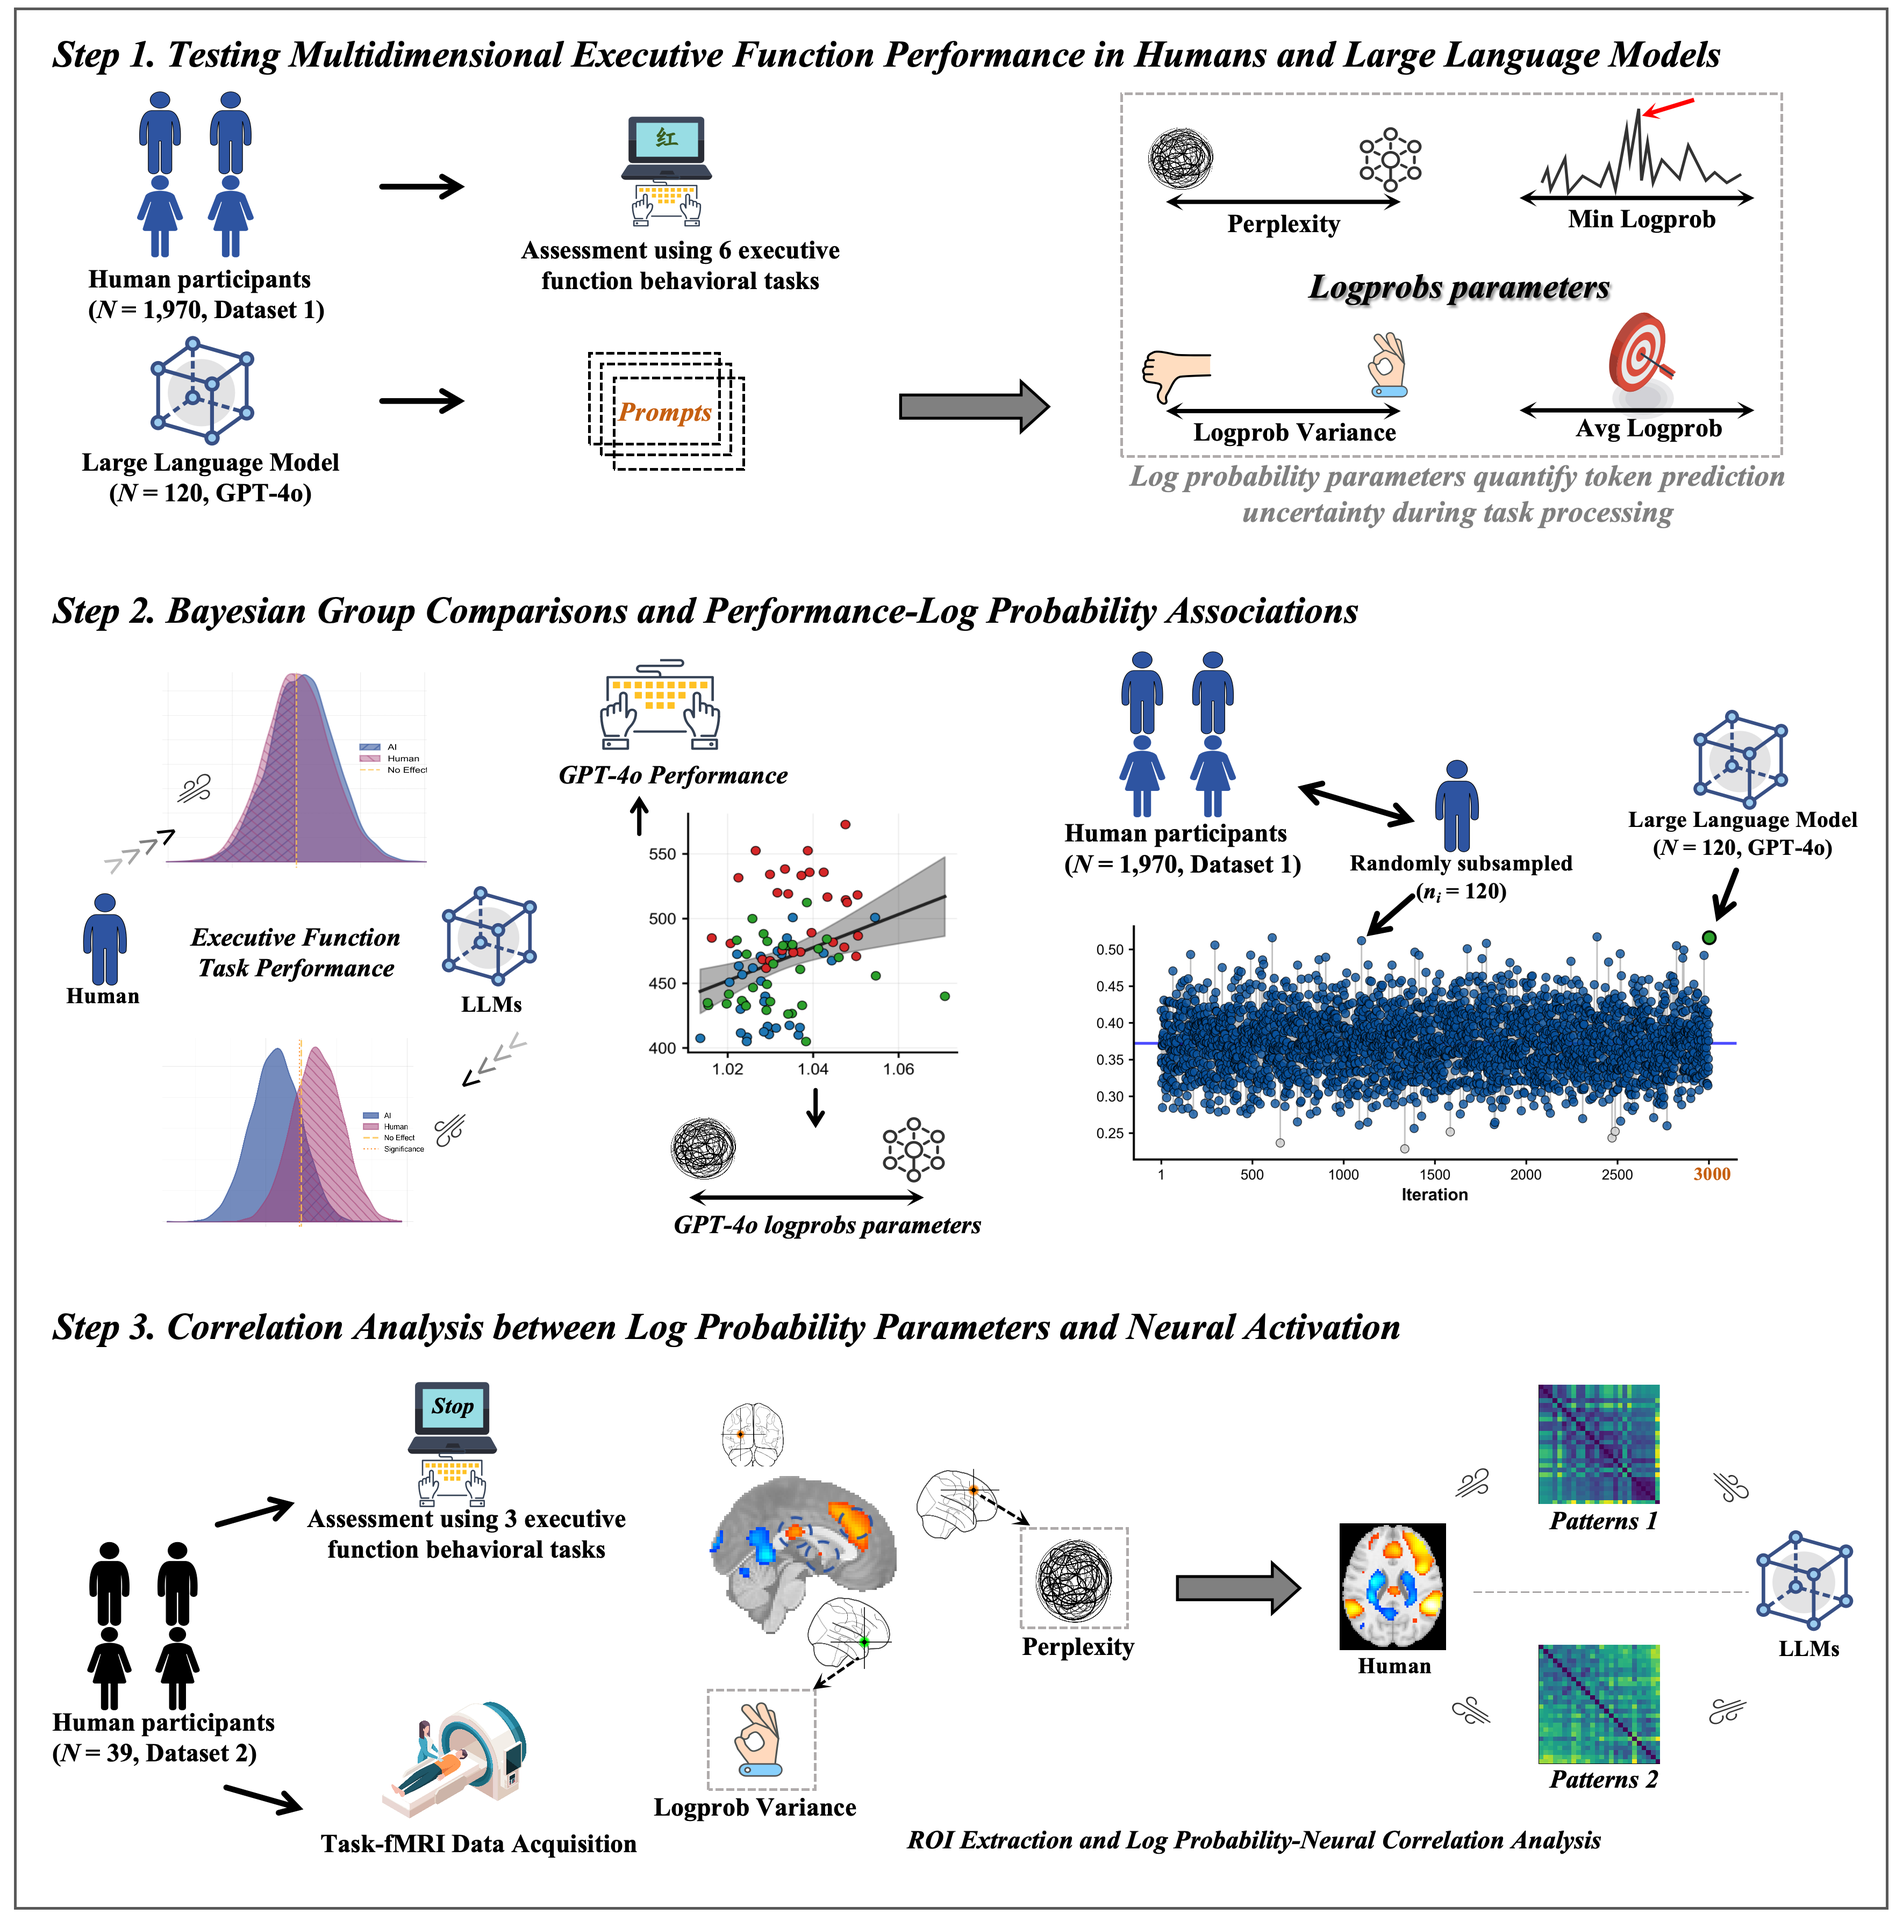
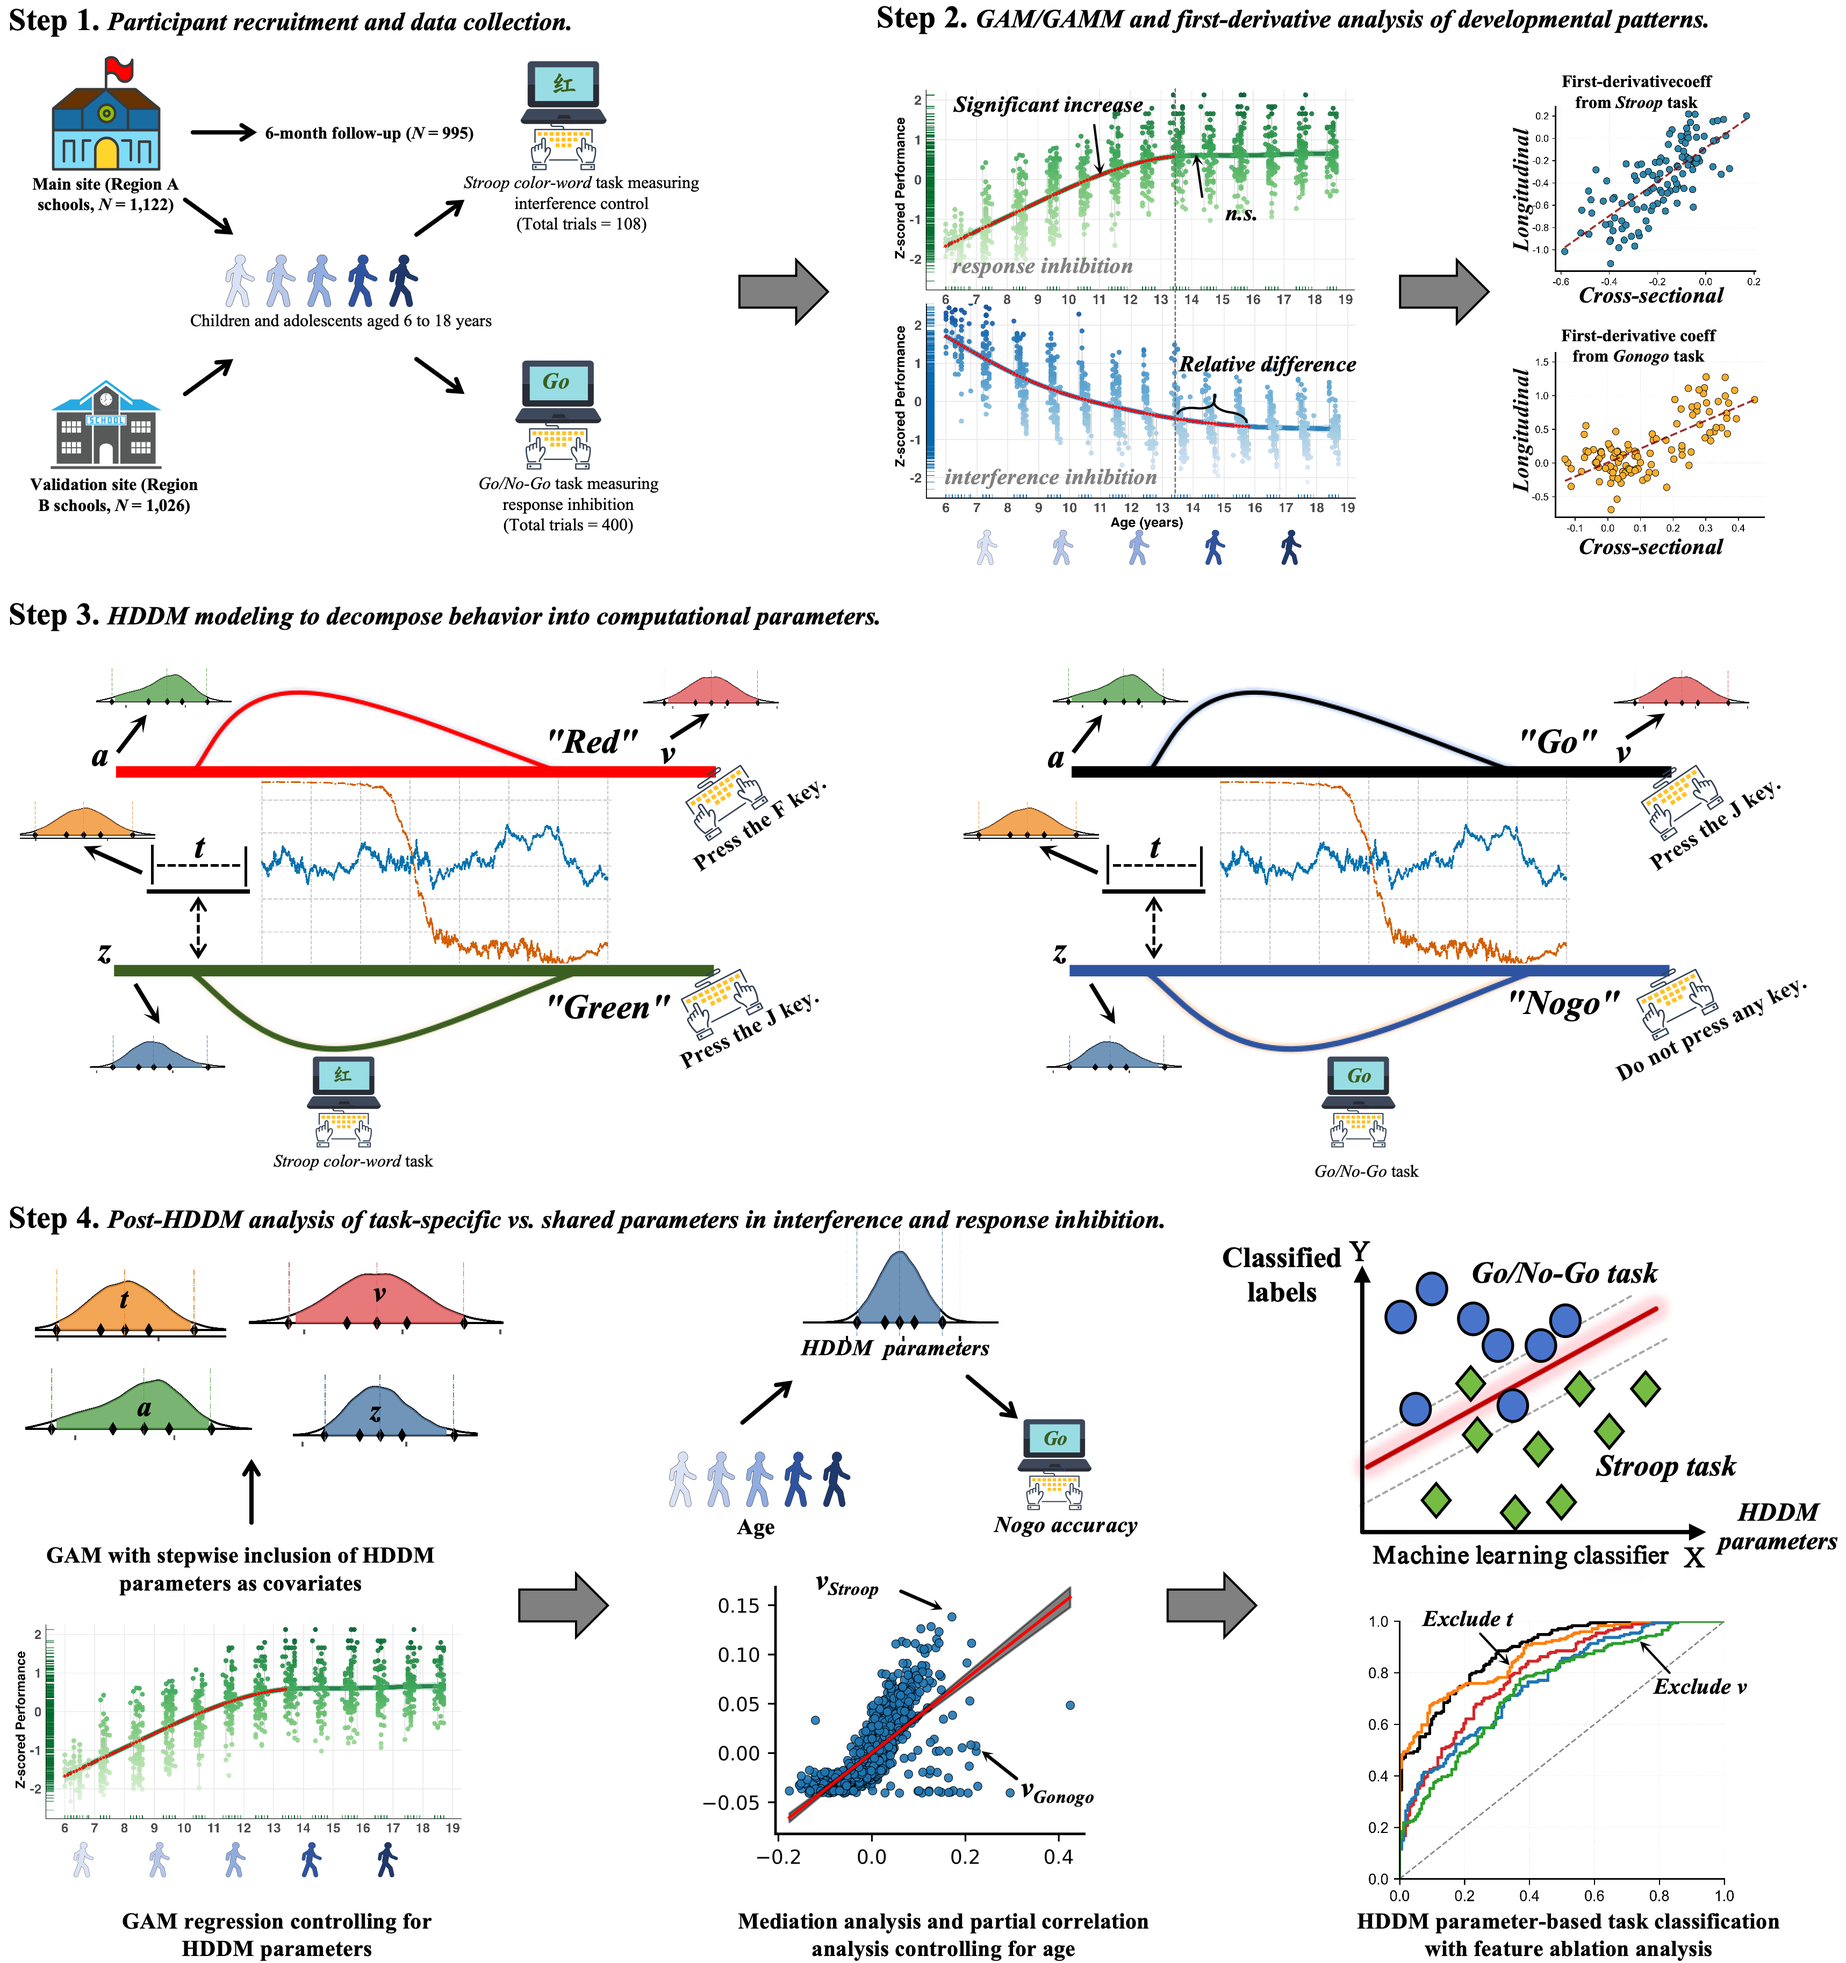
1

diff --git a/_pages/about.md b/_pages/about.md
@@ -713,8 +713,8 @@ window.addEventListener('DOMContentLoaded', function() {
                         <strong>Abstract:</strong> Large language models (LLMs) have demonstrated considerable capabilities in complex reasoning and problem-solving tasks that, in humans, depend on executive functions (EFs). However, the extent to which these models replicate human EF patterns remains unclear. We systematically evaluated GPT-4o's performance across three core EF dimensions—inhibitory control, working memory, and cognitive flexibility—using established behavioral paradigms. Additionally, we examined whether model-internal log probability parameters could serve as quantitative indicators of cognitive processing analogous to human neural activity. Using two independent datasets (N₁=1,970; N₂=39), we simulated trial-by-trial responses through GPT-4o while recording log probability metrics. Bayesian analyses revealed selective replication of human EF patterns. GPT-4o successfully reproduced human-like performance in interference inhibition (stroop), working memory capacity (digit span), and working memory updating (n-back). In contrast, the model showed divergent patterns in response inhibition (Go/No-Go), time-sensitive working memory updating (running memory task with presentation times of 1750 ms and 750 ms), and cognitive flexibility (number-switching task). Log probability parameters demonstrated task-specific associations with behavioral measures and corresponded with activation patterns in EF-related brain regions during working memory and task-switching paradigms. These findings suggest that GPT-4o captures specific aspects of human EF, particularly those involving symbolic representation and static information maintenance, while showing limitations in dynamic control and temporal processing. This selective replication pattern provides insights into both the computational basis of EF and the cognitive boundaries of current LLM architectures. Our results indicate that log probability parameters may offer a window into LLM cognitive processing, providing a methodological framework for evaluating artificial cognitive mechanisms.
                     </div>
                 </div>
-                <div class="tl-figure" onclick="openImgModal('/zhang/images/Page1-Figure5.png')">
-                    <img src="/zhang/images/Page1-Figure5.png" alt="研究设计及分析流程示意图">
+                <div class="tl-figure" onclick="openImgModal('/zhang/images/Page1-Figure6.png')">
+                    <img src="/zhang/images/Page1-Figure6.png" alt="研究设计及分析流程示意图">
                 </div>
             </div>
         </div>
